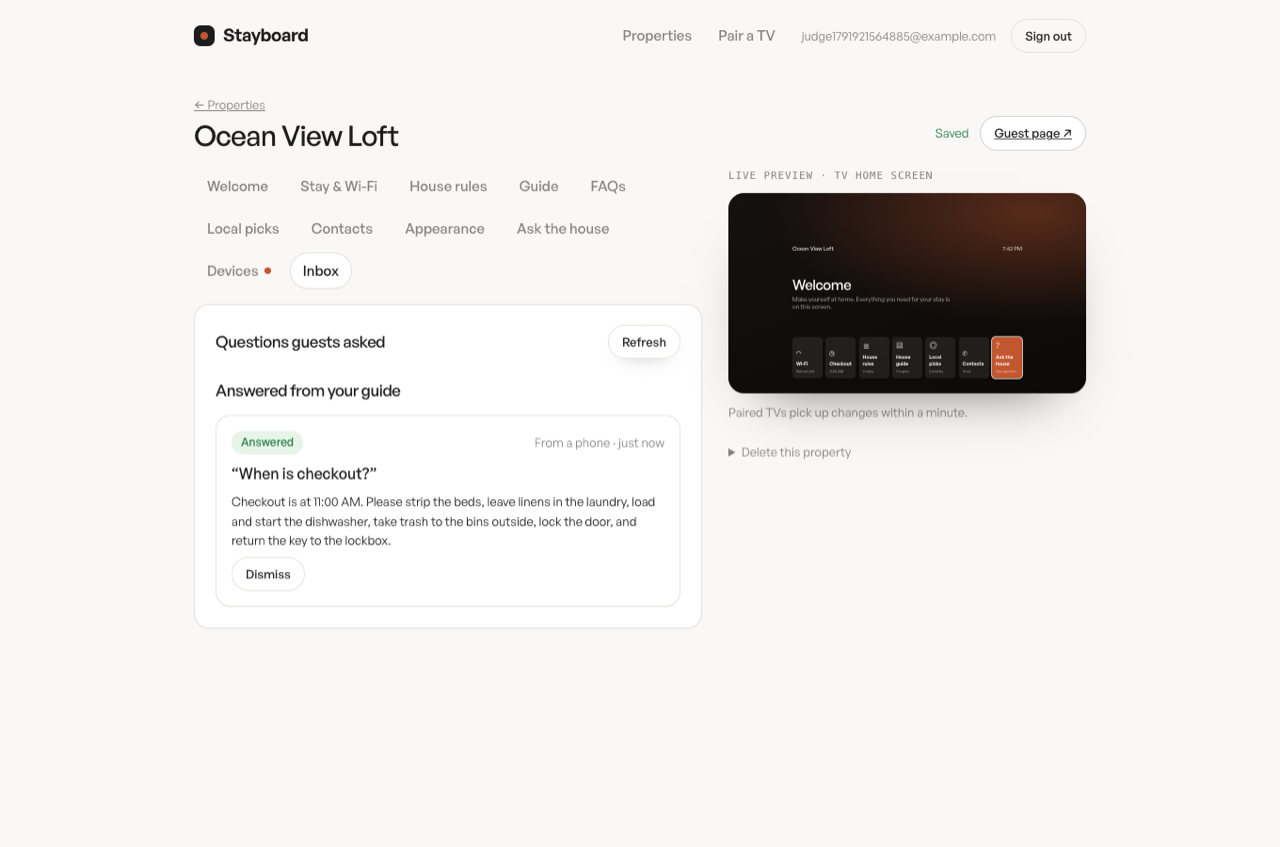
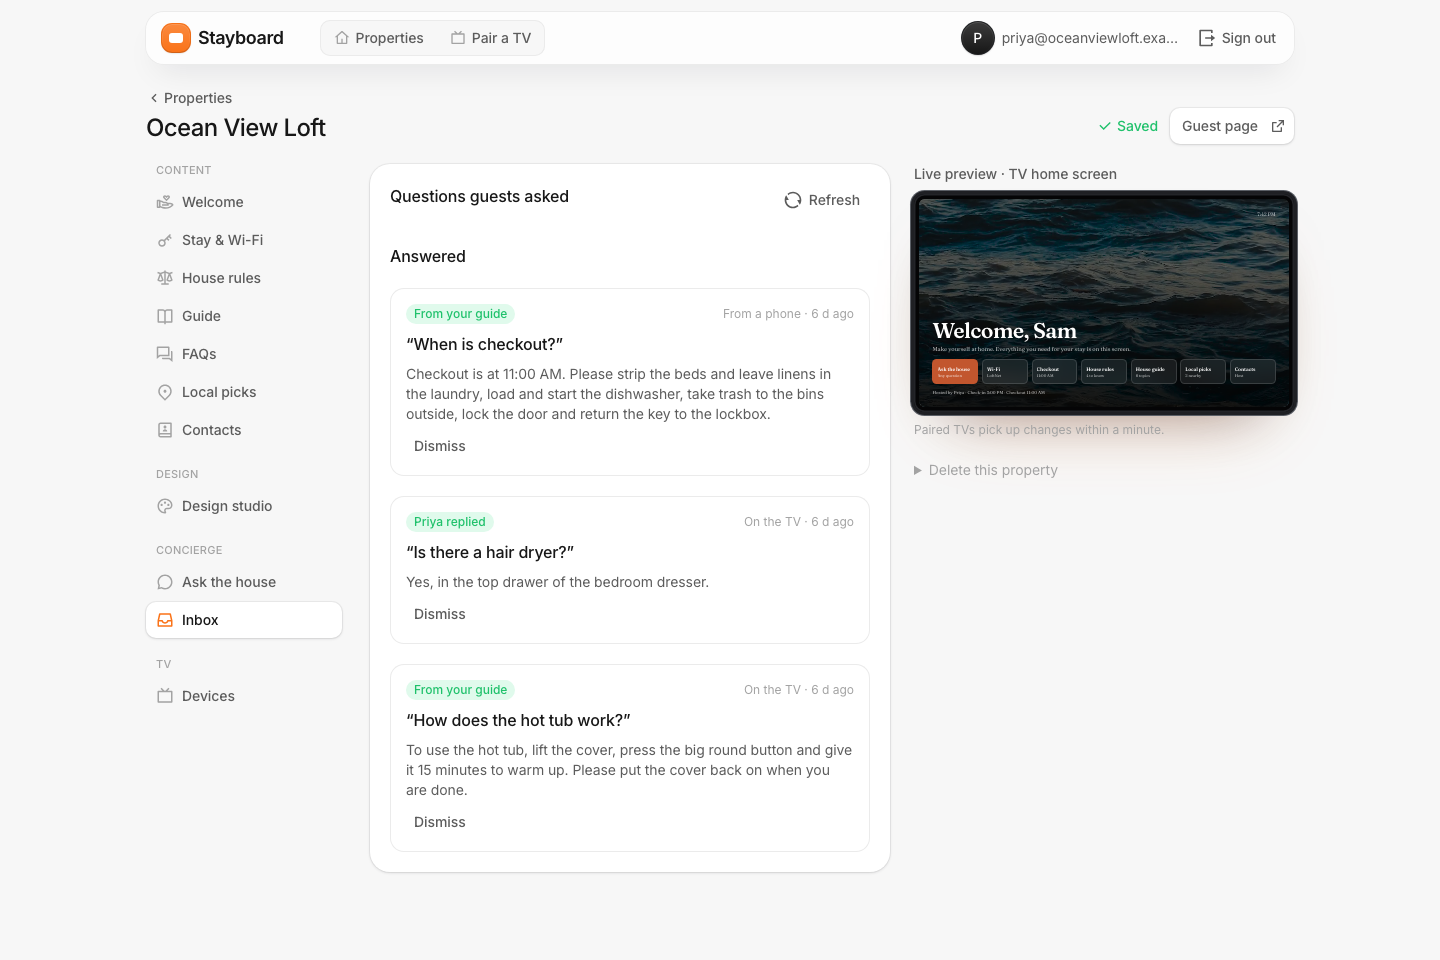
docs: current screenshots, full product feedback, YouTube thumbnail
- New dashboard, studio, inbox, tiles, landing and phone screenshots;
  web-ask.png and youtube-thumbnail.png added
- Devpost text leads with Ask the house and has product feedback per
  tool, feature requests, the open-source fields and image credits
- README judge steps match the app (Send reply, email code sign-in,
  prebuilt .vpkg on the virtual device)
- Hosting is described as Workers in the docs and the landing footer

diff --git a/src/app/landing.tsx b/src/app/landing.tsx
@@ -126,7 +126,7 @@ export function Landing({ initialError, next }: { initialError: string; next: st
       </Card>
 
       <footer className="flex flex-wrap justify-between gap-2 border-t border-stroke-soft-200 pt-6 text-paragraph-sm text-text-soft-400">
-        <span>Stayboard · Fire TV app on Vega OS · Amazon Bedrock Nova 2 Lite · Cloudflare Workers</span>
+        <span>Stayboard · Fire TV app on Vega OS · Amazon Bedrock Nova 2 Lite</span>
         <span>Built for the Amazon Developer Hackathon 2026</span>
       </footer>
       </div>

diff --git a/docs/devpost.md b/docs/devpost.md
@@ -9,37 +9,93 @@
 
 ## Tagline
 
-Your rental's welcome screen, on the Fire TV. Guests ask the TV; you answer once.
+A Fire TV app for rentals where guests ask the TV about the house. Amazon Nova answers from the host's guide, and anything it can't answer goes to the host, who answers it once.
 
 ## Inspiration
 
-Every short-term-rental host answers the same five questions every week: the Wi-Fi password, checkout time, how the hot tub works, where to eat, whether there's a hair dryer. The TV is the one screen every guest looks at, and on Fire TV it's a Vega OS app away from being the house's front desk.
+Every short-term-rental host answers the same five questions every week: the Wi-Fi password, checkout time, how the hot tub works, where to eat, whether there's a hair dryer. Every guest looks at the TV, and with a Vega OS app on a Fire TV it can be the house's front desk.
 
 ## What it does
 
-- A Fire TV app on Vega OS that turns on to a welcome screen with the guest's name, Wi-Fi with a scannable QR code, a checkout checklist, house rules, a house guide, local picks and contacts.
-- Ask the house: guests pick a question or type one on the TV, or scan a QR code and ask from their phone. Amazon Nova 2 Lite answers only from the host's guide. If the guide doesn't cover it, the TV says so and tells the host.
-- A host dashboard with a live preview of the TV, autosave and pairing by a six-letter code. Unanswered questions land in an inbox. The host replies once; the guest sees the reply on the TV or phone, and it is saved as an FAQ for everyone after. The TV picks up changes within a minute.
-- A design studio: looping background video, photo or slideshow, background music, five layouts, three bundled typefaces, colours, a logo, and tiles the host can rename, drag into a new order, or hide. Uploads land in Cloudflare R2 and the TV plays them through Vega's W3C media API.
+- Ask the house: guests pick a suggested question or type one with the remote, or scan a QR code and ask from their phone. Amazon Nova 2 Lite answers only from what the host wrote (the guide, FAQs, rules, Wi-Fi, checkout, local picks). If that doesn't cover the question, the TV says so, gives the host's fallback line, and sends the question to the host's inbox.
+- The host replies once. The guest sees the reply on the TV or phone, and it is saved as an FAQ, so Nova answers it for every guest after.
+- The rest of the screen: the TV turns on to a welcome screen with the guest's name, Wi-Fi with a scannable QR code, a checkout checklist, house rules, a house guide, local picks and contacts.
+- A host dashboard with a live preview of the TV, autosave and pairing by a six-letter code. The TV picks up changes within a minute.
+- A design studio: looping background video, photo or slideshow, background music, five layouts, three bundled typefaces, colours, a logo, and tiles the host can rename, drag into a new order, or hide. Uploads go to R2 object storage, and the TV plays them through Vega's W3C media API.
 
 ## How we built it
 
 - TV: React Native 0.83 for Vega (`@amazon-devices/react-native-kepler`), `TVFocusGuideView` for D-pad focus, `@amazon-devices/react-native-w3cmedia` `<Video>`/`<Audio>` for the backdrop and music, bundled OFL fonts, `@amazon-devices/react-native-qrcode-svg`, AsyncStorage for the device secret and the last config. Tested on the Vega Virtual Device.
-- Backend: Next.js 16 route handlers running on a Cloudflare Worker through OpenNext, with D1 for data and R2 for host uploads, served with Range support and an immutable cache. The Bedrock Converse API gets a system prompt built from the property config and must return strict JSON. Temperature 0, 300 tokens, daily caps per guest page and overall. One layout engine in `shared/design.ts` is shared by the TV, the web preview and the guest page.
+- AI: the Worker calls the Bedrock Converse API (Nova 2 Lite, us-east-1) with a system prompt built from the property config and tells the model to answer only from it. The model must return `{"answered": bool, "answer": string}`, and `answered: false` is what sends a question to the inbox. Temperature 0, 300 max tokens, 60 calls per guest page a day and 300 overall. No guest identity goes to the model.
+- Backend: Next.js 16 route handlers running on Workers through OpenNext, with D1 for data and R2 for host uploads, served with Range support and an immutable cache. One layout engine in `shared/design.ts` is shared by the TV, the web preview and the guest page.
 - Dashboard and guest page: Next.js 16 App Router with Tailwind 4 and AlignUI components, deployed on the same Worker. The guest page is server-rendered at `/g/<slug>` and reached from a QR code on the TV.
 
 ## Challenges
 
-See the friction log. The big ones: Vega's 960×540 logical resolution isn't documented where you start, there's no screenshot or key-injection command for the virtual device (we found the emulator console and `inputd-cli`), and network privileges aren't spelled out.
+The [friction log](https://github.com/kalashshah/stayboard/blob/main/docs/friction-log.md) has all 18 entries. These cost the most time:
+
+- Vega lays out a 1080p TV at 960×540 logical points, and the getting-started docs don't say so. Our first build came up at double size.
+- A background `<Audio>` track took over the remote's Back button and closed the app until we set `audioUsage` to `USAGE_GAME`.
+- `<Video>` played but drew nothing until we passed `width` and `height` props.
+- The virtual device has no screenshot or key-injection command, so we used the emulator console and `inputd-cli`.
+
+## What we learned
+
+On a TV, every screen needs one obvious place for the D-pad to land, and `TVFocusGuideView` handled that without a navigation library. Letting the model say it doesn't know turned out to be the useful part of the AI: each `answered: false` marks a gap in the guide, and the host's reply fills it for the next guest.
 
 ## What's next
 
 Appstore submission, booking-calendar sync for guest names and dates, multi-language answers, a screensaver mode, and an email digest of unanswered questions.
 
-## Product feedback (per tool)
+## Product feedback
 
-- **Vega SDK / Virtual Device:** installer and template are excellent; please document the logical resolution, add `vega virtual-device screenshot`, and document `inputd-cli`.
-- **React Native for Vega:** `TVFocusGuideView autoFocus` and `hasTVPreferredFocus` were enough for a full D-pad app without a navigation library. The `TextInput` `auxOptions`/`keyboardUiMode` props are a nice touch.
-- **W3C media on Vega:** `<Video>` and `<Audio>` played https MP4/MP3 on the virtual device first try, but `<Video>` silently draws nothing without `width`/`height` props, the eight manifest services plus the module id are only discoverable by reading `node_modules`, and bundled fonts must be referenced by file name. All in the friction log.
-- **Amazon Bedrock Nova 2 Lite:** fast, cheap, followed the JSON-only instruction on every call. No complaints.
-- **Devpost:** the hackathon page blocks non-browser clients, which made it hard to re-read the rules while building.
+### Vega SDK, CLI and Vega Virtual Device
+
+- **What we used it for:** building, packaging and running the TV app (`vega run-app`, `vega virtual-device`), and testing every screen on the virtual device.
+- **What worked well:** the one-line installer and the `helloWorld` template. `vega run-app … -d VirtualDevice` installs and launches in one step, and the Release build bundles the JS, so it runs without Metro.
+- **What needs work:** the 960×540 logical resolution isn't documented where you start. There's no screenshot command and no documented way to send remote keys (we used the emulator console and `inputd-cli`). The installer's `NONINTERACTIVE` mode isn't documented. The virtual device once exited between two runs with nothing in the log.
+- **Onboarding:** a fresh Mac got from nothing to an app on the virtual TV in about twenty minutes.
+- **Would we build with it again?** Yes. Getting started was quick, and the problems we hit have workarounds. All of them are in the friction log.
+
+### React Native for Vega (`@amazon-devices/react-native-kepler`)
+
+- **What we used it for:** the whole TV UI, including D-pad focus, the on-screen keyboard for Ask the house, QR codes (`react-native-qrcode-svg`) and AsyncStorage for the device secret and the cached config.
+- **What worked well:** `TVFocusGuideView` with `autoFocus` and `hasTVPreferredFocus` was enough for a full D-pad app with no navigation library. The ported QR and AsyncStorage packages behave like upstream.
+- **What needs work:** pressing Select on a focused `TextInput` opens the keyboard and also types its first key. The remote's Enter key doesn't fire `onSubmitEditing`. Bundled fonts have to be referenced by file name, not family name. Ported library versions (`3.0.9000000001`) look like typos and aren't explained.
+- **Onboarding:** the template is standard React Native, so the first screens needed nothing new.
+- **Would we build with it again?** Yes. Our React Native knowledge carried straight over to the TV.
+
+### W3C Media on Vega (`@amazon-devices/react-native-w3cmedia`)
+
+- **What we used it for:** the looping background video and the background music.
+- **What worked well:** https MP4 and MP3 played on the virtual device first try, with loop, mute and volume.
+- **What needs work:** `<Video>` draws nothing without `width`/`height` props, and it ignores position and transform styles. The eight manifest services and the module id can only be found by reading `node_modules`. A background `<Audio>` track takes over the Back button and closes the app unless you set `audioUsage` to `USAGE_GAME`.
+- **Onboarding:** audio worked first try. Video took longer, because of the missing `width`/`height` props and the manifest entries.
+- **Would we build with it again?** Yes. It's the standard media API, and once the manifest was right it was reliable.
+
+### Amazon Bedrock with Nova 2 Lite (AWS)
+
+- **What we used it for:** every Ask the house answer. Our Worker signs requests with `aws4fetch` and calls the Bedrock Converse API (`us.amazon.nova-2-lite-v1:0`, us-east-1). The system prompt is built from the host's guide, FAQs, rules, Wi-Fi, checkout, local picks and contacts. The model must reply with `{"answered": bool, "answer": string}`, and `answered: false` sends the question to the host's inbox. Temperature is 0 and max tokens 300, with daily caps of 60 calls per guest page and 300 overall. An IAM user that can only call `bedrock:InvokeModel` on Nova 2 Lite holds the credentials, and a $3/month budget alarm is set on the account. Code: [`worker/ask.ts`](https://github.com/kalashshah/stayboard/blob/main/worker/ask.ts).
+- **What worked well:** it answered grounded questions correctly on the first try, followed the JSON-only instruction on every call, and costs well under a cent per question. The Converse API works over plain HTTPS, so it runs on a non-AWS edge runtime with no SDK.
+- **What needs work:** nothing blocked us. A Converse option that guarantees a JSON schema would let us drop our parsing fallback.
+- **Onboarding:** the IAM policy scoped to one inference profile plus the foundation model ARN worked unchanged from a previous project.
+- **Would we build with it again?** Yes. It followed the JSON format on every call, and because the Converse API is plain HTTPS we could call it from our Worker without the AWS SDK.
+
+## Feature requests
+
+- **`vega virtual-device screenshot` and `vega device press-key`:** these would let us record demos and run UI tests without the emulator console. Important.
+- **A documented logical resolution in the template README:** our first build came up at double size. Important.
+- **A CLI command that prints the manifest entries a dependency needs:** this would have saved the W3C media setup. Nice to have.
+- **Let the remote's Enter key submit a `TextInput`:** guests shouldn't have to hunt for the keyboard's Search button. Important.
+
+## Open source
+
+- **Repository:** https://github.com/kalashshah/stayboard (MIT, created during the hackathon window)
+- **GitHub username:** kalashshah
+- **What we did:** we published the whole project under MIT. That's the Vega TV app, the Next.js dashboard and API on Workers, the guest phone page, the D1 migrations, and a friction log with 18 entries.
+- **How it works:** one `design` object drives three renderers (the TV, the web preview and the phone page) through shared pure helpers in `shared/design.ts`. The Bedrock integration is one plain-HTTPS function in `worker/ask.ts`. Setup and deploy steps are in the README, and the `.vpkg` builds are on the release.
+- **Why it matters:** it's a full, working Vega OS app that other developers can read. It shows D-pad focus without a navigation library, W3C media playback with a working manifest, on-screen keyboard handling and a grounded LLM feature. Hosts get a free alternative to welcome-screen apps that charge $7–15 a month.
+
+## Credits
+
+The forest backdrop in some TV screenshots is from Big Buck Bunny (© Blender Foundation, CC BY 3.0).

diff --git a/README.md b/README.md
@@ -21,7 +21,7 @@ Welcome-screen apps already exist on Fire TV (Hello Guest Screen, WelcomeScreen,
 | Part | Where | Stack |
 |---|---|---|
 | Fire TV app | `tv/` | React Native 0.83 for Vega (`@amazon-devices/react-native-kepler` 4), `react-native-w3cmedia` for video and audio, QR codes, AsyncStorage, bundled fonts |
-| API + database + media | `src/app/api/`, `worker/`, `migrations/` | Next.js route handlers on a Cloudflare Worker via OpenNext; D1/R2 logic in `worker/`. D1 (SQLite), R2 for host uploads (ranged, immutable), Amazon Bedrock Nova 2 Lite via `aws4fetch` |
+| API + database + media | `src/app/api/`, `worker/`, `migrations/` | Next.js route handlers on Workers via OpenNext; database and storage logic in `worker/`. D1 (SQLite), R2 object storage for host uploads (ranged, immutable), Amazon Bedrock Nova 2 Lite via `aws4fetch` |
 | Host dashboard | `src/app/` | Next.js 16 (App Router) + Tailwind 4 with AlignUI components; design studio with a live framed preview of the TV, drag-to-reorder tiles, uploads with progress, autosave |
 | Guest phone page | `src/app/g/[slug]/` | Server-rendered at `/g/<slug>`, reached from a QR code on the TV; same backdrop, font and tile order as the TV |
 
@@ -52,7 +52,7 @@ The Worker builds a system prompt from the property config (stay, Wi-Fi, rules, 
 
 ## Run it yourself
 
-Prerequisites: Node 20+, a Cloudflare account, an AWS account with Bedrock access to `us.amazon.nova-2-lite-v1:0` in us-east-1, and (for the TV) the Vega SDK on a Mac or Linux machine.
+Prerequisites: Node 20+, a Workers account (for the API, D1 and R2), an AWS account with Bedrock access to `us.amazon.nova-2-lite-v1:0` in us-east-1, and (for the TV) the Vega SDK on a Mac or Linux machine.
 
 ```bash
 # API + dashboard
@@ -63,8 +63,8 @@ npx wrangler r2 bucket create stayboard-media   # host uploads (free tier is ple
 cp .dev.vars.example .dev.vars              # AWS_ACCESS_KEY_ID / AWS_SECRET_ACCESS_KEY (IAM user with bedrock:InvokeModel only)
                                             # GOOGLE_CLIENT_ID / GOOGLE_CLIENT_SECRET (OAuth web client; redirect URI <origin>/api/auth/google/callback)
 npx wrangler secret bulk .dev.vars
-npm run deploy                              # opennextjs-cloudflare build + deploy
-npm test                                    # vitest: config schema, hashing, prompt, answer parsing
+npm run deploy                              # OpenNext build + deploy
+npm test                                    # vitest: config schema, sign-in codes, prompt, answer parsing
 
 # TV app (Vega SDK installed: curl -fsSL https://sdk-installer.vega.labcollab.net/get_vvm.sh | bash)
 cd tv && npm install
@@ -78,12 +78,12 @@ For a real Fire TV Stick running Vega OS: enable developer mode, `vega device in
 
 ## For judges (no Fire TV needed)
 
-1. Open https://stayboard.keronlabs.com and create an account (Continue with Google, or any email and a password of 8+ characters).
+1. Open https://stayboard.keronlabs.com and create an account: Continue with Google, or enter your email and type in the six-digit code we send you.
 2. Create a property. It comes pre-filled with a sensible house guide; edit anything and watch the TV preview on the right update.
 3. Open **Design studio**: drop in a short MP4 (or paste an https link), pick **Poster** and **Fraunces**, drag a tile to a new spot. The preview plays the video; the TV would too.
 4. Open **Guest page ↗** on your phone: that's exactly what the TV shows, plus the ask box. Ask "when is checkout?" then "is there a hair dryer?".
-5. Back in the editor, open **Inbox**: the hair-dryer question is waiting. Click **Add as FAQ**, type the answer. Ask again on the phone.
-6. To see the real TV app, run it on the Vega Virtual Device (above) and pair it from **Devices** with the six-letter code the TV shows.
+5. Back in the editor, open **Inbox**: the hair-dryer question is waiting. Type an answer and click **Send reply**. The guest sees it on the phone, and it's saved as an FAQ, so asking again gets an instant answer.
+6. To see the real TV app, install a prebuilt `.vpkg` from the [release](https://github.com/kalashshah/stayboard/releases/tag/v0.1.0) on the Vega Virtual Device (`vega virtual-device start`, then `vega run-app stayboard_aarch64.vpkg com.kalashshah.stayboard.main -d VirtualDevice`; use `x86_64` on Intel or Linux). The packages already talk to the live site. Pair it from **Devices** with the six-letter code the TV shows.
 
 ## Screenshots (Vega Virtual Device and dashboard)
 
@@ -110,7 +110,7 @@ The rest of the app:
 
 ## Security and privacy
 
-- Passwords: PBKDF2-SHA256, 100k iterations, Web Crypto. Sessions: HttpOnly, Secure, SameSite=Lax cookie, 30 days.
+- Sign-in: Google, or a six-digit email code (sent through the Workers email binding). Codes are stored as SHA-256 hashes, expire after 10 minutes and die after five wrong tries. One code per minute and 10 per day per address. Sessions: HttpOnly, Secure, SameSite=Lax cookie, 30 days.
 - TVs authenticate with a random 32-byte secret that is never shown to anyone; hosts only see the six-letter pairing code.
 - The guest page exposes exactly what the TV shows. Questions are stored as text only.
 - Uploads are type- and size-checked in the Worker, stored under the property's own prefix, deleted with the property, and served without listing. URL fields accept `https://` only.

diff --git a/docs/friction-log.md b/docs/friction-log.md
@@ -12,7 +12,7 @@ What slowed us down while building a Vega app plus an AWS-backed service in one 
 
 4. **Installer has a non-interactive mode that isn't documented.** `get_vvm.sh` honors `NONINTERACTIVE=true` and `VEGA_SDK_VERSION`, but the install page only describes the prompts. We only knew because we read the script. *Severity: low. Fix: document the env vars; CI users need them.*
 
-5. **Network privileges are unclear.** The manifest docs show camera and media privileges and a `net-info` privilege for `react-native-netinfo`. Nothing says whether plain `fetch` needs a privilege. It doesn't (our app talks to a Cloudflare Worker with no manifest changes), but we only learned that by trying. *Severity: low. Fix: one line on the manifest page: "outbound HTTPS needs no privilege".*
+5. **Network privileges are unclear.** The manifest docs show camera and media privileges and a `net-info` privilege for `react-native-netinfo`. Nothing says whether plain `fetch` needs a privilege. It doesn't (our app talks to its own HTTPS API with no manifest changes), but we only learned that by trying. *Severity: low. Fix: one line on the manifest page: "outbound HTTPS needs no privilege".*
 
 6. **Ported library versions look like typos.** `@amazon-devices/react-native-svg@3.0.9000000001` and `...async-storage__async-storage@2.1.9000000001`. They install fine, but the version scheme (`<major>.<minor>.9000000001`) isn't explained on the supported-libraries page, and `npm view` is the only way to find the exact string. *Severity: low. Fix: explain the scheme or show the full install line per library.*
 

diff --git a/docs/superpowers/plans/2026-10-14-stayboard.md b/docs/superpowers/plans/2026-10-14-stayboard.md
@@ -2,9 +2,9 @@
 
 > **For agentic workers:** REQUIRED SUB-SKILL: superpowers:executing-plans (inline). Steps use checkbox syntax.
 
-**Goal:** Ship Stayboard end to end: Worker API + D1, host dashboard with live preview, guest phone page, Vega (Fire TV) app, Nova-powered "Ask the house", running on the Vega Virtual Device and deployed to Cloudflare.
+**Goal:** Ship Stayboard end to end: Worker API + D1, host dashboard with live preview, guest phone page, Vega (Fire TV) app, Nova-powered "Ask the house", running on the Vega Virtual Device and deployed to Workers.
 
-**Architecture:** One Cloudflare Worker (Hono) serves `/api/*` and the Vite SPA (dashboard + guest page). D1 holds hosts, sessions, properties (config as one JSON column), devices, questions, usage. The TV app is React Native 0.83 for Vega; it registers for a pairing code, polls config, and posts questions. Bedrock Nova 2 Lite answers from a system prompt built from the property config.
+**Architecture:** One Worker (Hono) serves `/api/*` and the Vite SPA (dashboard + guest page). D1 holds hosts, sessions, properties (config as one JSON column), devices, questions, usage. The TV app is React Native 0.83 for Vega; it registers for a pairing code, polls config, and posts questions. Bedrock Nova 2 Lite answers from a system prompt built from the property config.
 
 **Tech Stack:** TypeScript, Hono, zod, aws4fetch, React 19, Vite 8, vitest, wrangler 4, Vega SDK 0.24 (`@amazon-devices/react-native-kepler` 4), `@amazon-devices/react-native-qrcode-svg`, `@amazon-devices/react-native-async-storage__async-storage`.
 

diff --git a/docs/superpowers/plans/2026-10-14-stayboard-studio.md b/docs/superpowers/plans/2026-10-14-stayboard-studio.md
@@ -6,7 +6,7 @@
 
 **Architecture:** One `design` object in the property config, migrated from the old `appearance` fields by a pure `upgradeConfig`. Pure helpers (`layoutFor`, `backdropFor`, `tileSub`, `visibleTiles`) live in `worker/config.ts` and are mirrored in `tv/src/types.ts`, so three renderers agree. Media is uploaded raw to R2 through the Worker and served back with Range support. The dashboard gets a sidebar studio with a Design tab; the TV app adds `react-native-w3cmedia` for video and audio.
 
-**Tech Stack:** Hono + zod 4 + D1 + R2 on Cloudflare Workers; React 19 + Vite; Vega RN 0.83 + `@amazon-devices/react-native-w3cmedia` ~2.3.2; vitest, jest, Playwright (scratchpad).
+**Tech Stack:** Hono + zod 4 + D1 + R2 on Workers; React 19 + Vite; Vega RN 0.83 + `@amazon-devices/react-native-w3cmedia` ~2.3.2; vitest, jest, Playwright (scratchpad).
 
 **Spec:** `docs/superpowers/specs/2026-10-14-stayboard-studio-design.md`
 

diff --git a/docs/superpowers/specs/2026-10-14-stayboard-design.md b/docs/superpowers/specs/2026-10-14-stayboard-design.md
@@ -13,7 +13,7 @@
 
 ## Components
 
-1. **Worker + D1** (Cloudflare, Hono, TypeScript). API for hosts, TVs and guests. Calls Amazon Bedrock (Nova 2 Lite, `us.amazon.nova-2-lite-v1:0`, us-east-1) for answers. Serves the dashboard SPA and the guest page.
+1. **Worker + D1** (Workers, Hono, TypeScript). API for hosts, TVs and guests. Calls Amazon Bedrock (Nova 2 Lite, `us.amazon.nova-2-lite-v1:0`, us-east-1) for answers. Serves the dashboard SPA and the guest page.
 2. **Dashboard** (`src/`, React + Vite). Landing page, sign-up/sign-in, property editor with live TV preview, questions inbox, device pairing.
 3. **Guest page** (`src/guest`, same SPA, route `/g/:slug`). Mobile web version of the TV screen with an ask box.
 4. **TV app** (`tv/`, React Native 0.83 for Vega, `@amazon-devices/react-native-kepler`). Pair, home, detail screens, ask screen.
